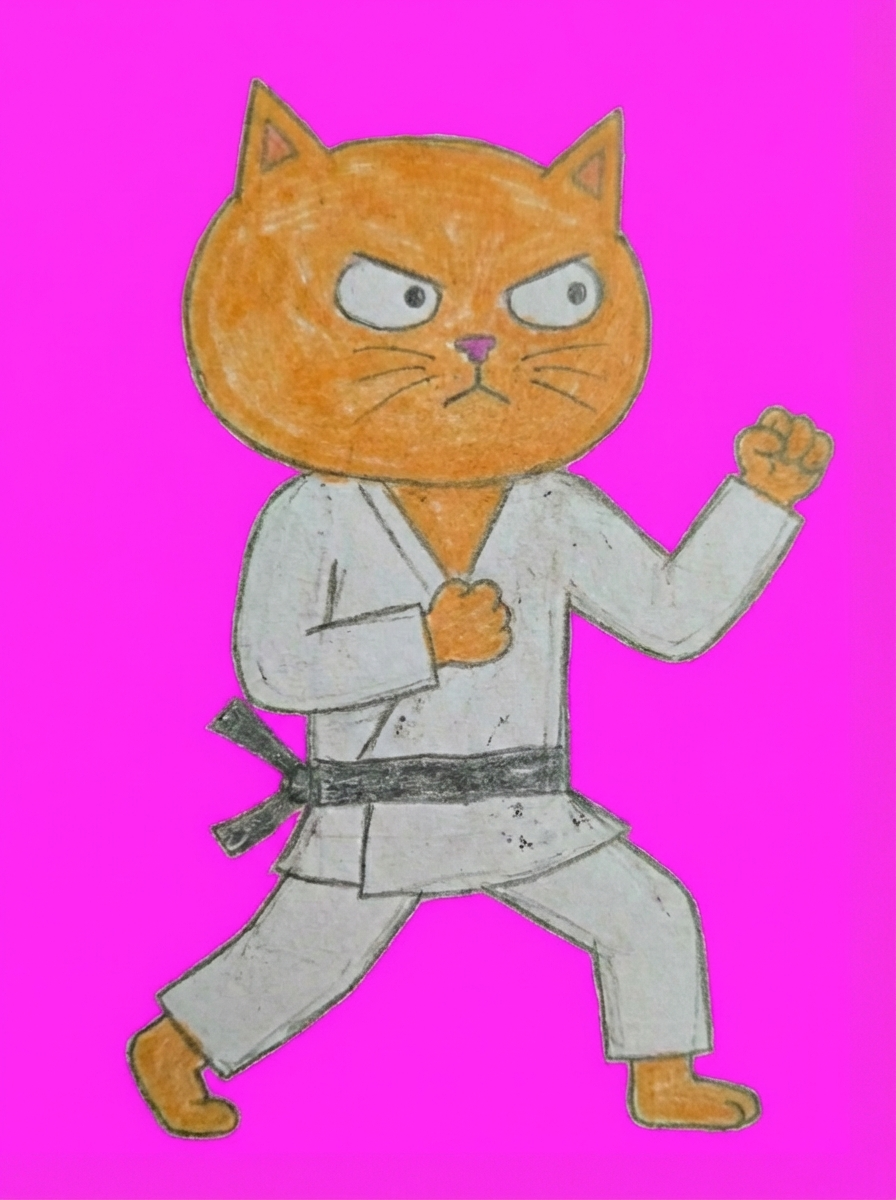
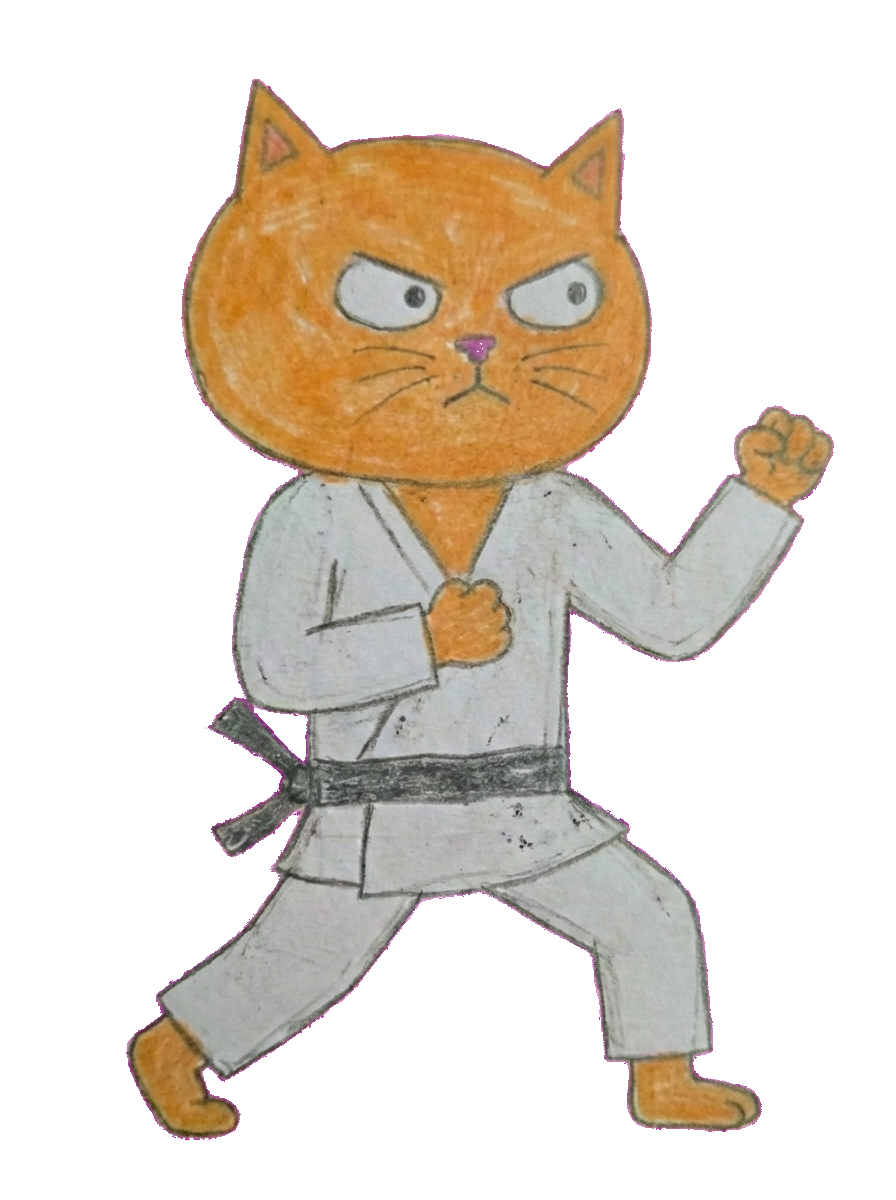
Polish BB. Kiosque: bigger fireballs, hit sparks, help screen, FX assets
- Reorganize player1 sprites: originals/ folder, transparent versions as main
- Add FX sprites (fireball-p1, fireball-p2, hit-spark) with originals/ folder
- Bigger fireballs (200x200) positioned at chest height
- Fix screen flicker on hit: isolate damage flash to offscreen canvas
- Hit spark sprite now renders at impact point (120px) with larger particles
- Longer attack poses (punch/kick active and recovery frames increased)
- Fireball P2 no longer flipped (each player has distinct sprite)
- Space bar toggles help/controls screen during fight (pauses game)

diff --git a/index.html b/index.html
@@ -24,24 +24,24 @@ const CONFIG = {
   PUSH_BACK: 8,
 
   PUNCH_STARTUP: 4,
-  PUNCH_ACTIVE: 3,
-  PUNCH_RECOVERY: 8,
+  PUNCH_ACTIVE: 10,
+  PUNCH_RECOVERY: 12,
   PUNCH_DAMAGE: 8,
   PUNCH_RANGE: 70,
 
   CLOSE_PUNCH_STARTUP: 3,
-  CLOSE_PUNCH_ACTIVE: 3,
-  CLOSE_PUNCH_RECOVERY: 6,
+  CLOSE_PUNCH_ACTIVE: 8,
+  CLOSE_PUNCH_RECOVERY: 10,
   CLOSE_PUNCH_DAMAGE: 6,
   CLOSE_PUNCH_RANGE: 60,
 
   KICK_STARTUP: 6,
-  KICK_ACTIVE: 4,
-  KICK_RECOVERY: 10,
+  KICK_ACTIVE: 12,
+  KICK_RECOVERY: 14,
   KICK_DAMAGE: 12,
   KICK_RANGE: 90,
 
-  FIREBALL_STARTUP: 12,
+  FIREBALL_STARTUP: 20,
   FIREBALL_SPEED: 7,
   FIREBALL_DAMAGE: 14,
   FIREBALL_COOLDOWN: 45,
@@ -884,9 +884,9 @@ let fireballs = [];
 function spawnFireball(fighter) {
   fireballs.push({
     x: fighter.x + (fighter.facingRight ? fighter.width : -30),
-    y: fighter.y + fighter.height * 0.4,
-    width: 60,
-    height: 30,
+    y: fighter.y + fighter.height * 0.15,
+    width: 200,
+    height: 200,
     speed: fighter.facingRight ? CONFIG.FIREBALL_SPEED : -CONFIG.FIREBALL_SPEED,
     damage: CONFIG.FIREBALL_DAMAGE,
     owner: fighter,
@@ -990,14 +990,27 @@ const particles = [];
 let shakeIntensity = 0;
 
 function spawnHitSpark(x, y) {
+  // Spawn the hit-spark sprite as a particle
+  const sparkSprite = images.fx ? images.fx.hitSpark : null;
+  if (sparkSprite) {
+    particles.push({
+      x, y,
+      vx: 0, vy: 0,
+      life: 12, maxLife: 12,
+      size: 120,
+      isSprite: true,
+      sprite: sparkSprite,
+    });
+  }
+  // Additional small particles
   for (let i = 0; i < 10; i++) {
     particles.push({
       x, y,
-      vx: (Math.random() - 0.5) * 12,
-      vy: (Math.random() - 0.5) * 12,
-      life: 10 + Math.random() * 8,
-      maxLife: 18,
-      size: 2 + Math.random() * 4,
+      vx: (Math.random() - 0.5) * 14,
+      vy: (Math.random() - 0.5) * 14,
+      life: 12 + Math.random() * 10,
+      maxLife: 22,
+      size: 6 + Math.random() * 8,
       color: ['#fff', '#ff0', '#f80', '#f44'][Math.floor(Math.random() * 4)],
     });
   }
@@ -1020,8 +1033,12 @@ function drawParticles() {
   for (const p of particles) {
     const alpha = p.life / p.maxLife;
     ctx.globalAlpha = alpha;
-    ctx.fillStyle = p.color;
-    ctx.fillRect(p.x - p.size / 2, p.y - p.size / 2, p.size, p.size);
+    if (p.isSprite && p.sprite) {
+      ctx.drawImage(p.sprite, p.x - p.size / 2, p.y - p.size / 2, p.size, p.size);
+    } else {
+      ctx.fillStyle = p.color;
+      ctx.fillRect(p.x - p.size / 2, p.y - p.size / 2, p.size, p.size);
+    }
   }
   ctx.globalAlpha = 1;
 }
@@ -1066,15 +1083,20 @@ function drawFighter(fighter) {
   }
 
   if (sprite) {
-    ctx.drawImage(sprite, drawX, drawY, drawW, drawH);
-  }
-
-  // Damage flash overlay
-  if (fighter.spriteFlash > 0) {
-    ctx.globalCompositeOperation = 'source-atop';
-    ctx.fillStyle = 'rgba(255,255,255,0.5)';
-    ctx.fillRect(drawX, drawY, drawW, drawH);
-    ctx.globalCompositeOperation = 'source-over';
+    // For damage flash, draw to offscreen canvas to isolate composite
+    if (fighter.spriteFlash > 0) {
+      const off = document.createElement('canvas');
+      off.width = drawW;
+      off.height = drawH;
+      const oCtx = off.getContext('2d');
+      oCtx.drawImage(sprite, 0, 0, drawW, drawH);
+      oCtx.globalCompositeOperation = 'source-atop';
+      oCtx.fillStyle = 'rgba(255,255,255,0.6)';
+      oCtx.fillRect(0, 0, drawW, drawH);
+      ctx.drawImage(off, drawX, drawY);
+    } else {
+      ctx.drawImage(sprite, drawX, drawY, drawW, drawH);
+    }
   }
 
   ctx.restore();
@@ -1092,14 +1114,7 @@ function drawFireballs() {
   for (const fb of fireballs) {
     const sprite = images.fx ? images.fx[fb.sprite] : null;
     if (sprite) {
-      ctx.save();
-      if (fb.speed < 0) {
-        ctx.translate(fb.x + fb.width / 2, 0);
-        ctx.scale(-1, 1);
-        ctx.translate(-(fb.x + fb.width / 2), 0);
-      }
       ctx.drawImage(sprite, fb.x, fb.y, fb.width, fb.height);
-      ctx.restore();
     }
   }
 }
@@ -1339,7 +1354,7 @@ function drawTitleScreen() {
   ctx.font = 'bold 24px monospace';
   const pulse = 0.5 + Math.sin(Date.now() / 300) * 0.5;
   ctx.globalAlpha = pulse;
-  ctx.fillText('PRESS ANY KEY TO START', W / 2, 620);
+  ctx.fillText(gameState === 'help' ? 'PRESS SPACE TO RESUME' : 'PRESS ANY KEY TO START', W / 2, 620);
   ctx.globalAlpha = 1;
 }
 
@@ -1484,7 +1499,18 @@ function gameLoop(timestamp) {
       }
       break;
 
+    case 'help':
+      drawTitleScreen();
+      if (keysJustPressed.has('Space')) {
+        gameState = 'fighting';
+      }
+      break;
+
     case 'fighting': {
+      if (keysJustPressed.has('Space')) {
+        gameState = 'help';
+        break;
+      }
       const input1 = readInputs(1);
       const input2 = readInputs(2);
 
